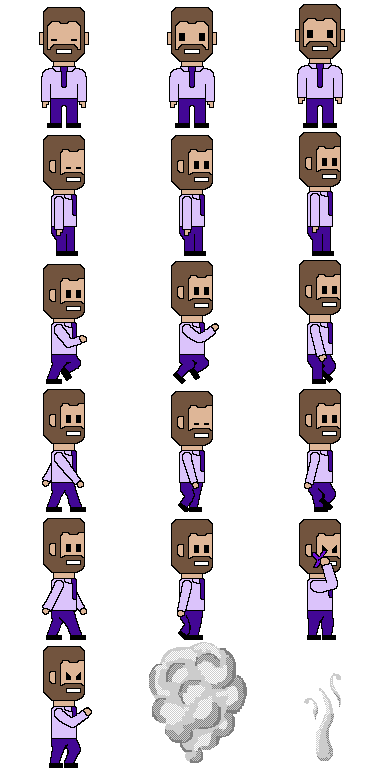
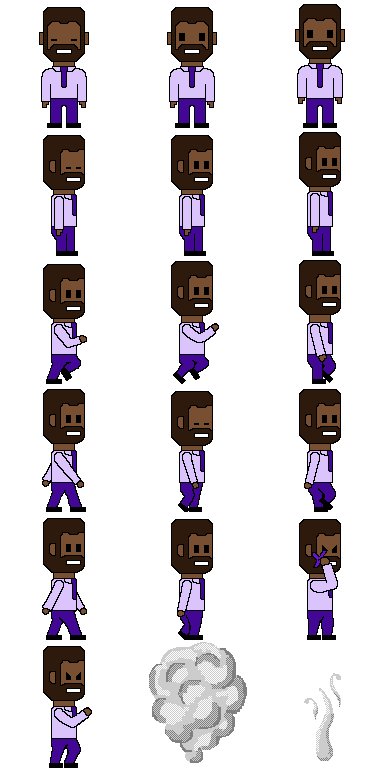
Swap out male character, update levels for playability, saturate map platforms

diff --git a/main.js b/main.js
@@ -607,7 +607,11 @@ function spawnBalloon() {
 
     const balloonTexture = Phaser.Utils.Array.GetRandom(balloonDict[balloonType]);
     const mapHeight = this.map.heightInPixels;
-    const balloon = this.balloons.create(this.map.widthInPixels, Phaser.Math.Between(mapHeight * 0.2, mapHeight * 0.8), balloonTexture);
+
+    //calculate new x as the current x position of the cameras right edge
+    const x = this.cameras.main.scrollX + this.game.config.width + 50;
+
+    const balloon = this.balloons.create(x, Phaser.Math.Between(mapHeight * 0.2, mapHeight * 0.8), balloonTexture);
     balloon.setVelocityX(-100);
     balloon.body.allowGravity = false;
     balloon.anims.play(`${balloonTexture}_move`, true);
@@ -1354,7 +1358,7 @@ class GameOverScene extends Phaser.Scene {
                 .setStrokeStyle(4, 0x000000);
 
             // Add the game over banner
-            const banner = this.add.image(width / 2, (height * 0.21) + 20, 'youLose')
+            const banner = this.add.image(width / 2, (height * 0.27) + 20, 'youLose')
                 .setDisplaySize((rectWidth * 0.9), ((rectHeight * 0.3) + 30));
 
             // Define score attributes

diff --git a/python/saturate.py b/python/saturate.py
@@ -1,0 +1,25 @@
+#Loop through images in assets\\saturate and saturate them
+
+from PIL import Image
+from PIL import ImageEnhance
+import os
+
+def saturate_images(image_folder, output_folder, saturation_factor=2.0):
+    # List all image files in the folder
+    image_files = [f for f in os.listdir(image_folder) if f.endswith(('.png', '.jpg'))]
+    print(image_files)
+
+    # Loop through all image files
+    for image_file in image_files:
+        img = Image.open(os.path.join(image_folder, image_file))
+        #Make image more colorful
+        img = img.convert("RGB")
+        #No .blend
+        
+        img = Image.blend(img, ImageEnhance.Color(img).enhance(saturation_factor), 1.0)
+        img.save(os.path.join(output_folder, image_file))
+
+# Example usage
+image_folder = "assets\\saturate"  # Folder containing individual images
+output_folder = "assets\\saturated"  # Folder to save the saturated images
+saturate_images(image_folder, output_folder, saturation_factor=2.0)

diff --git a/python/packer.py b/python/packer.py
@@ -35,7 +35,7 @@ def create_spritesheet(image_folder, output_file, tile_width=32, tile_height=32,
     spritesheet.save(output_file)
 
 # Example usage
-image_folder = "assets\\papercranefactory_tongo_game-asset_balloons\\tongo_game-asset_balloon-sm-staging"  # Folder containing individual images
-output_file = "assets\\balloons\\staging_sm.png"  # Name of the output spritesheet
+image_folder = "assets\\new_male"  # Folder containing individual images
+output_file = "assets\\male.png"  # Name of the output spritesheet
 columns = 3  # Number of columns
-create_spritesheet(image_folder, output_file, columns=columns, tile_width=48, tile_height=120)
+create_spritesheet(image_folder, output_file, columns=columns, tile_width=128, tile_height=128)
